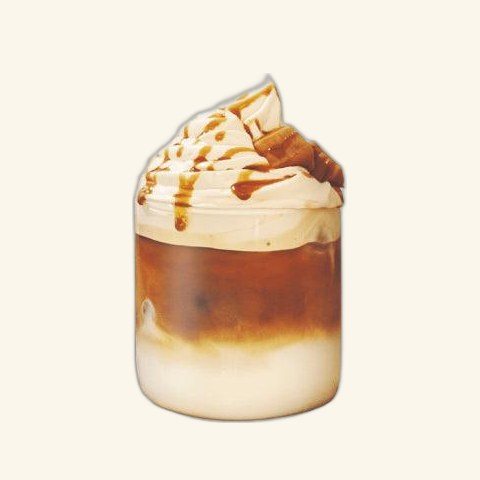
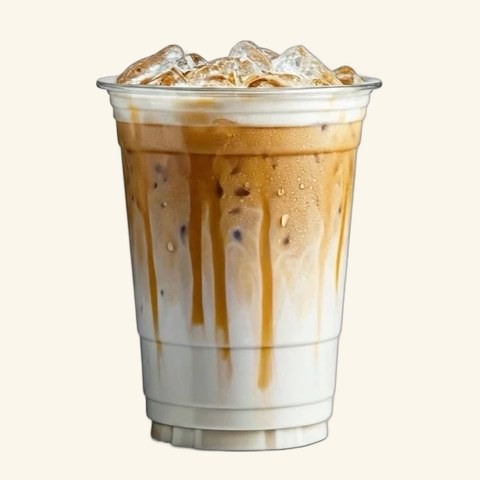
Use the plastic-cup iced latte as the Buttercreme Latte
Scene 3 signature cup and the menu thumbnail now use the sharper
plastic-cup photo.

Claude-Session: https://claude.ai/code/session_01HWE7jYXeXesUvADqkK1XCZ

diff --git a/index.html b/index.html
@@ -127,7 +127,7 @@
               </ul>
             </div>
           </div>
-          <div class="s3-cup" id="s3-cup"><img src="assets/img/signature-cup.webp" alt="Iced Buttercreme Latte with whipped cream and caramel drizzle" width="430" height="700" loading="lazy"></div>
+          <div class="s3-cup" id="s3-cup"><img src="assets/img/signature-cup.webp" alt="Iced Buttercreme Latte in a clear cup with ice" width="492" height="706" loading="lazy"></div>
         </div>
 
       </div>
